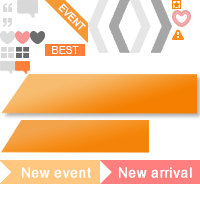
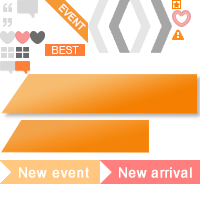
상품이 하나도 없는경우 오류 나기 때문에 빈칸이미지 삽입

Changed region(s): [[0.09, 0.81, 0.45, 0.9]]

diff --git a/jtown/src/main/webapp/resources/js/content/expand.js b/jtown/src/main/webapp/resources/js/content/expand.js
@@ -87,6 +87,18 @@ jtown.expand.makeInnerHtml = function(spn){
 			smallProductHtml += '	<span class="'+i+' image" ><img alt="Product'+i+'" src="'+path+product.saveName+'"/></span>';
 			smallProductHtml += '</div>';
 		}
+		if(productSize < 3 ){
+			for(var i=productSize ; i< 3; i++){
+				bigProductHtml += '	<li class="jt-home-expand-shop-expandProduct">';
+				bigProductHtml += '		<a href="'+jtownUser.shopUrl+'"><img alt="Empty Product" src="'+contextPath+'resources/images/jt-product-blank.png"></a>';
+				bigProductHtml += ' </li>';
+				
+				smallProductHtml += '<div class="thumbnail">';
+				smallProductHtml += '	<span class="text">&nbsp;</span>';
+				smallProductHtml += '	<span class="image" ><img alt="Product" src="'+contextPath+'resources/images/jt-product-thumbnail-blank.png"/></span>';
+				smallProductHtml += '</div>';
+			}
+		}
 		
 		var eventImage1 = contextPath + 'resources/images/jt-event-user-blank.png', 
 			eventImage2 = contextPath + 'resources/images/jt-event-user-blank.png';
